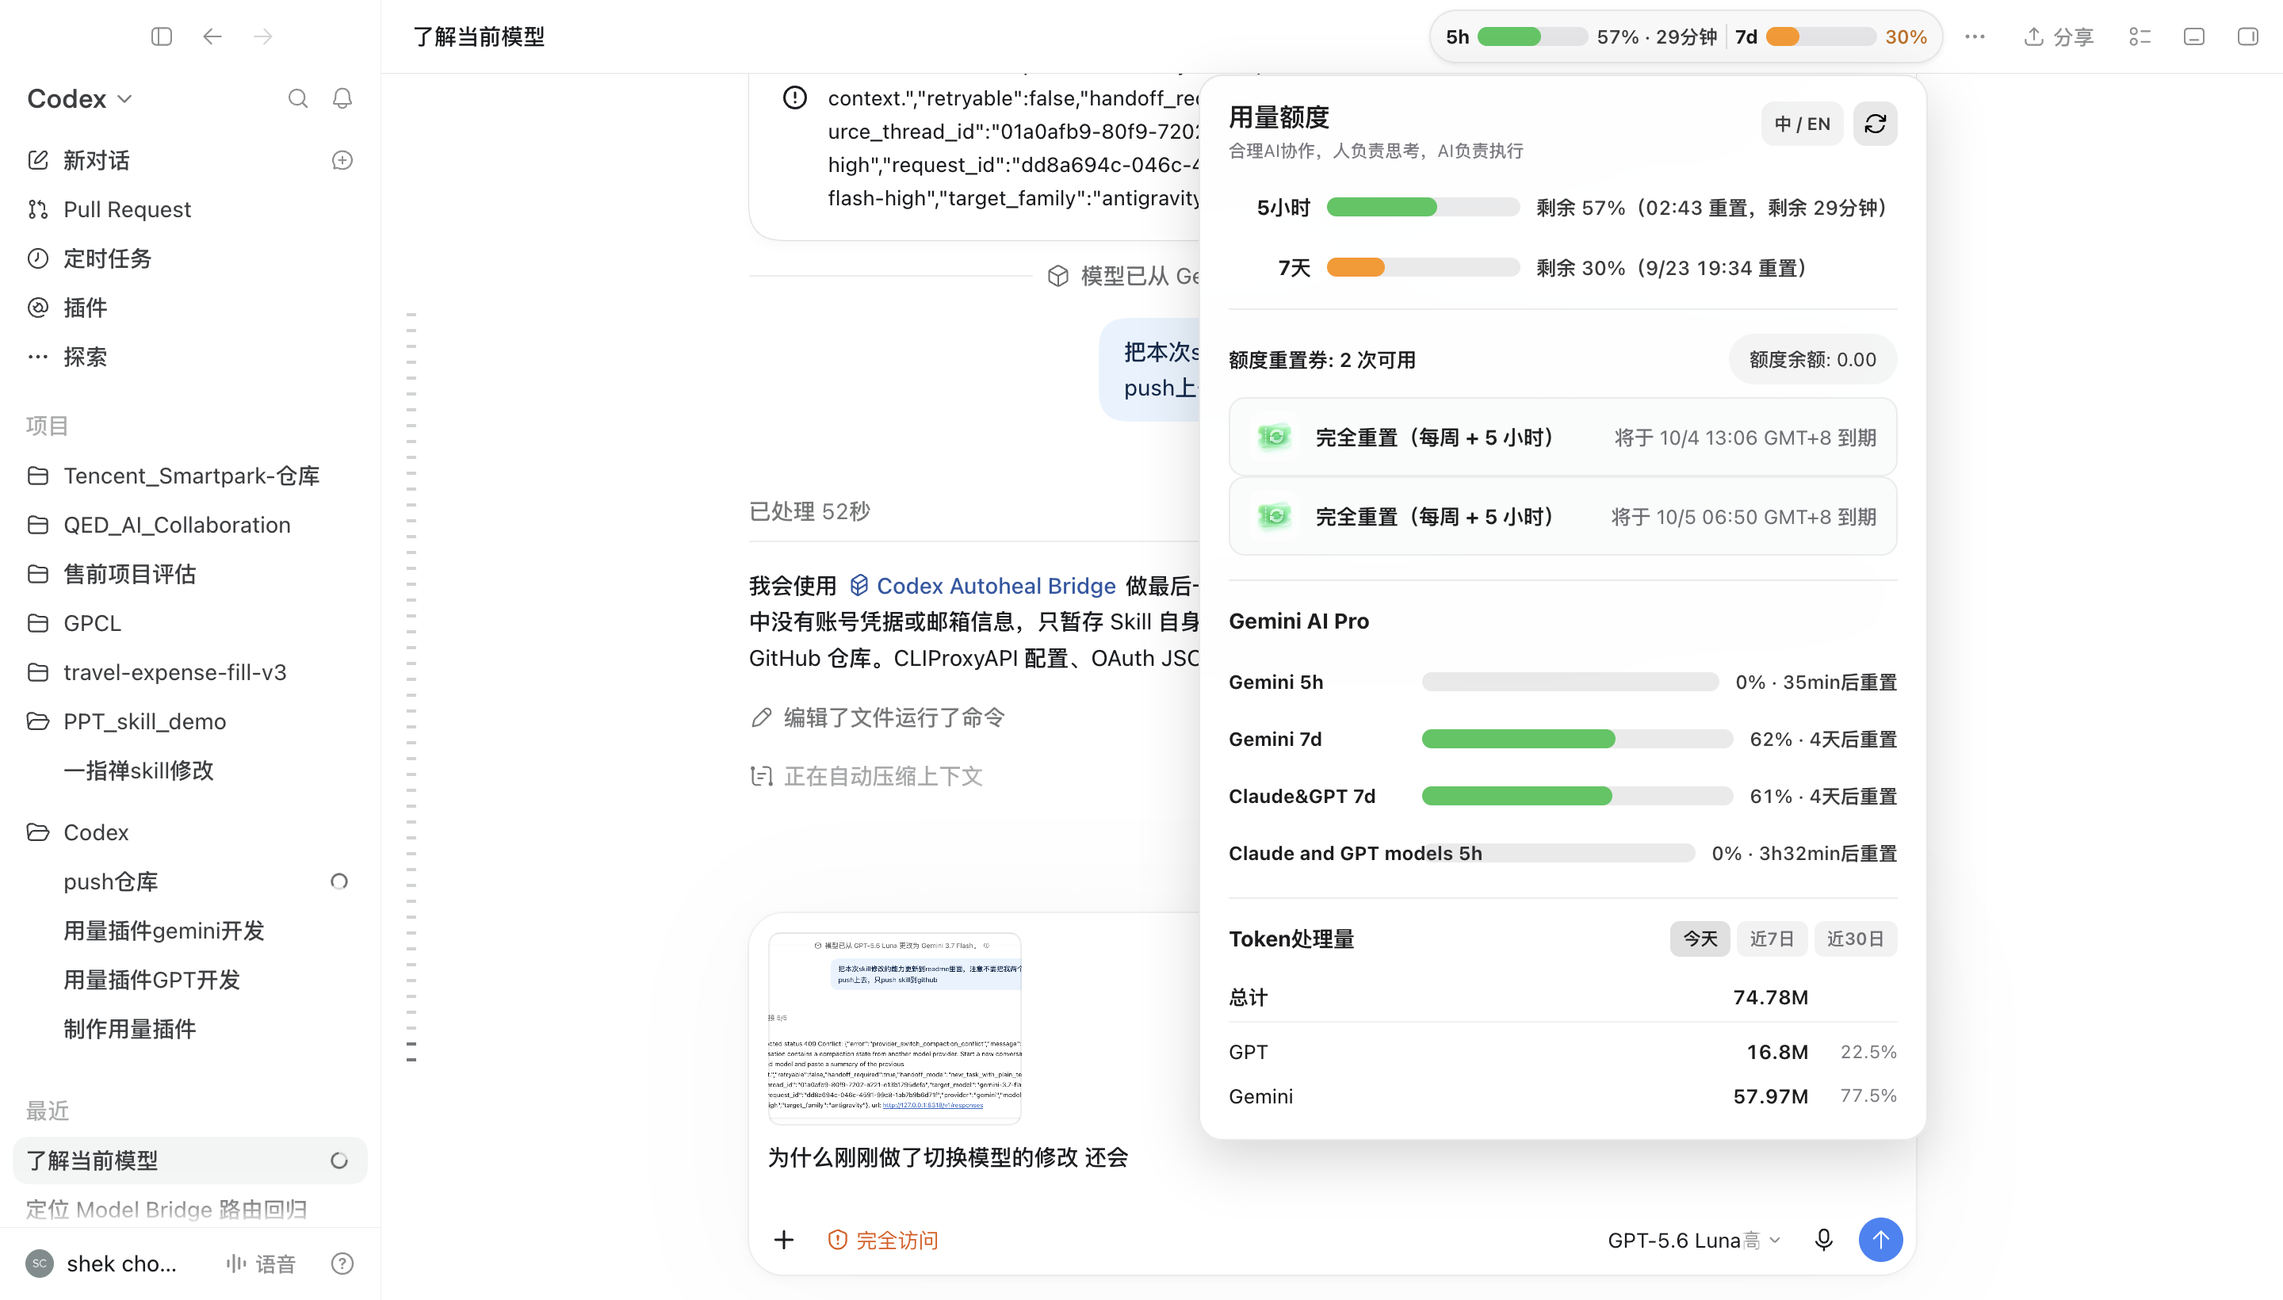
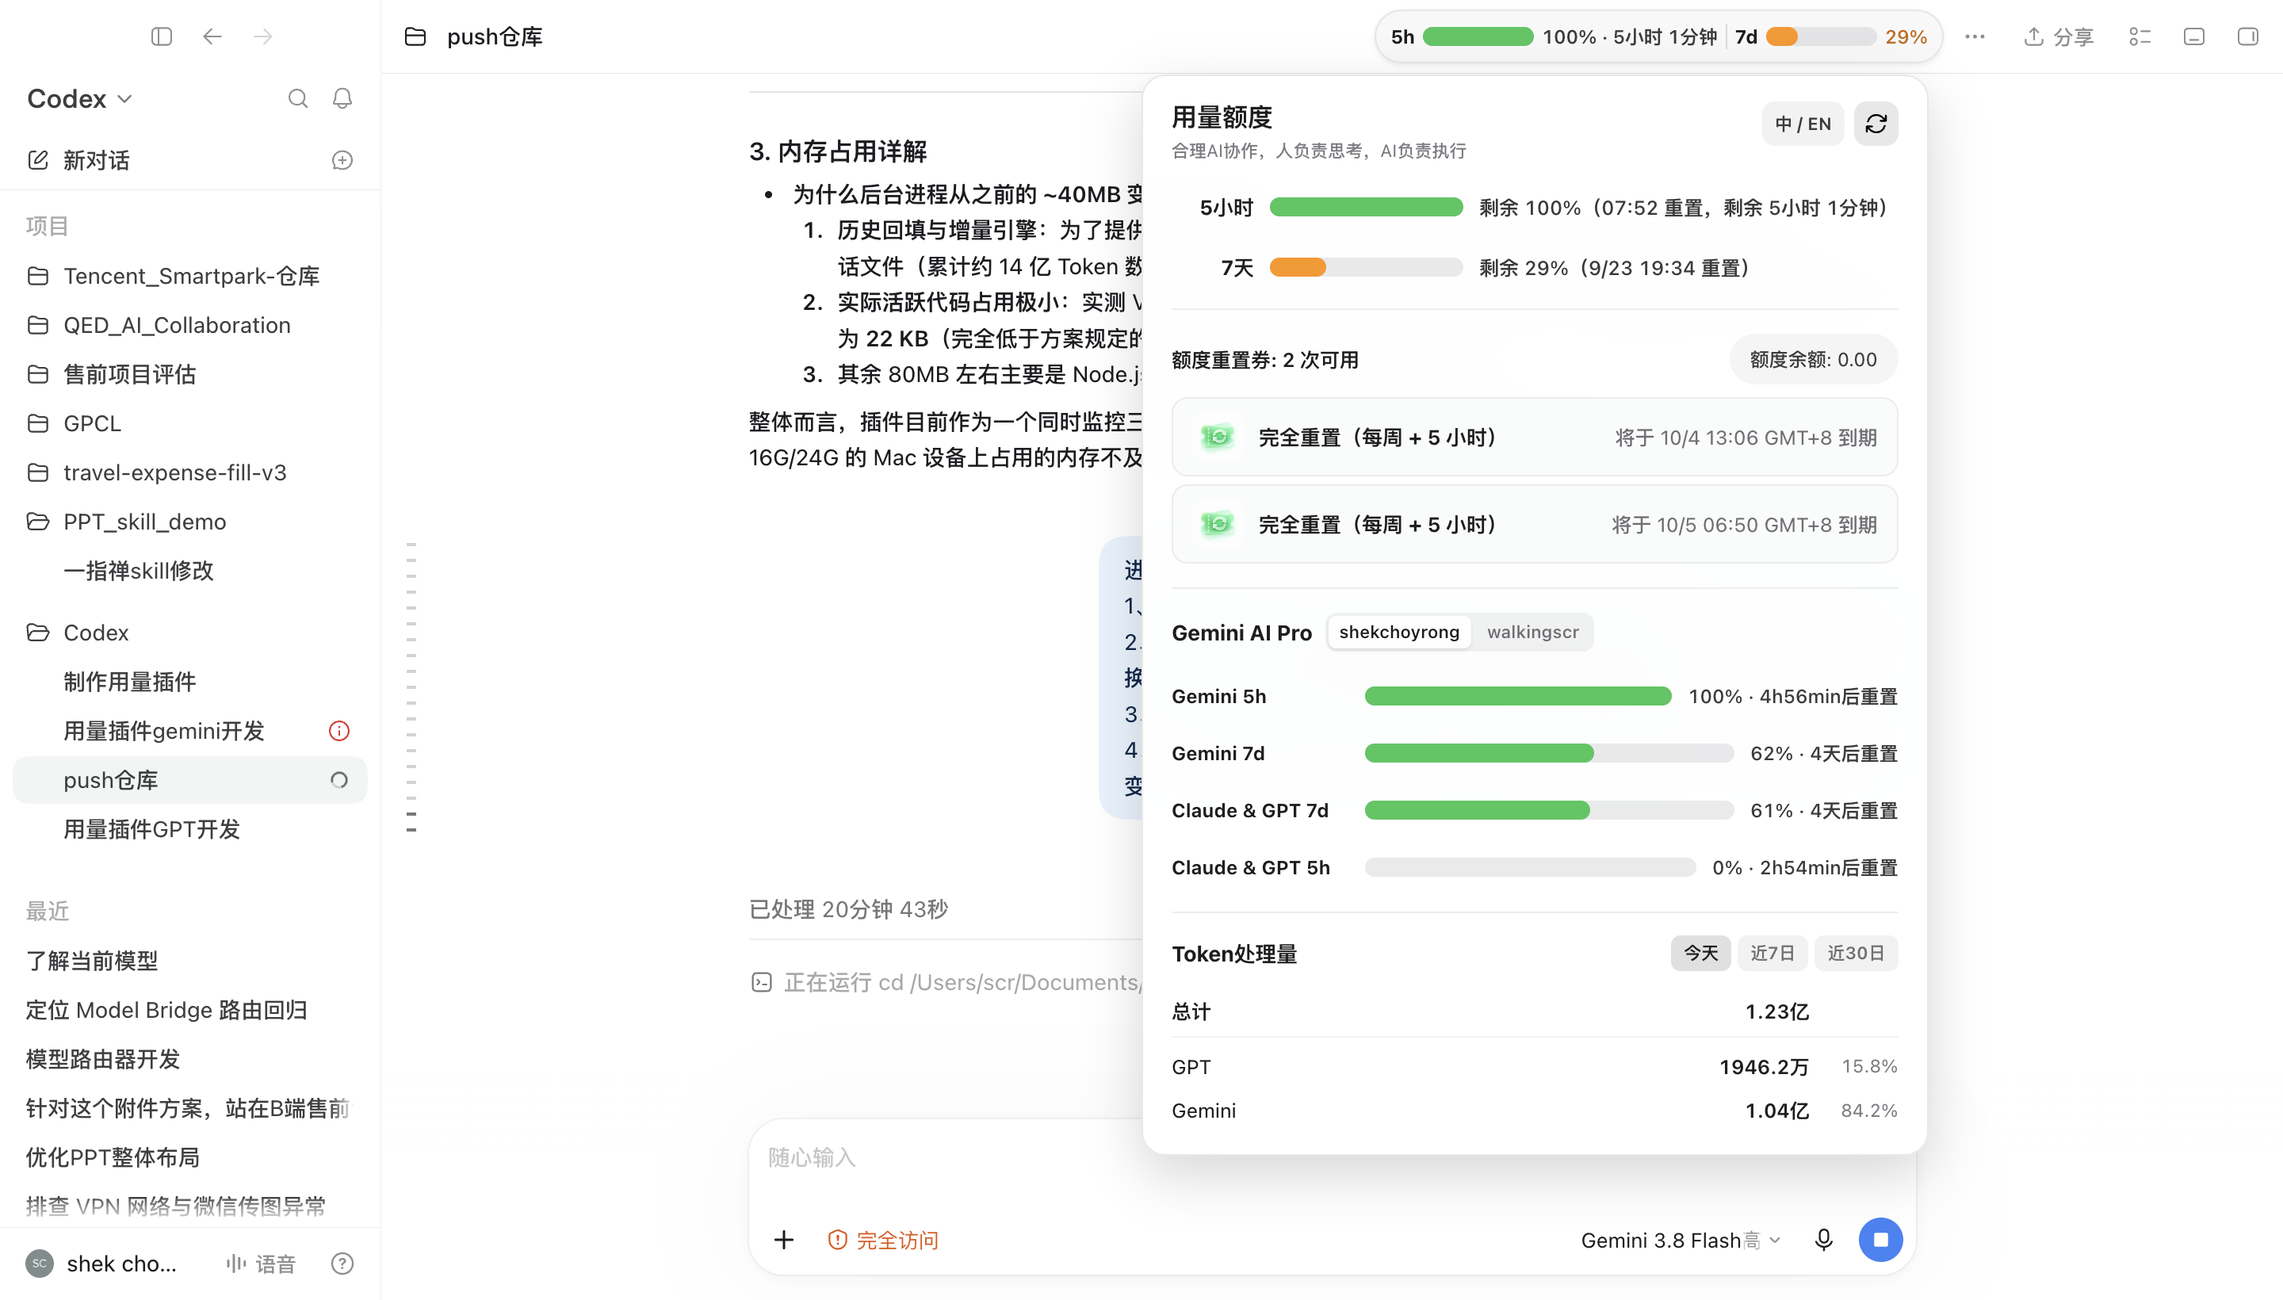
feat: add multi-account Gemini tabs, 5px reset-card gap, Claude & GPT 5h title, and Chinese token units (万/亿)

diff --git a/src/injected.js b/src/injected.js
@@ -6,7 +6,7 @@
 (() => {
   'use strict';
 
-  const RUNTIME_VERSION = '2.6.0';
+  const RUNTIME_VERSION = '2.6.1';
   const HOST_TAG = 'codex-usage-header-host';
   const POPOVER_CLASS = 'codex-usage-popover-v24';
   const POPOVER_ID = 'codex-usage-details-v24';
@@ -480,6 +480,7 @@
       const refresh = path.find(node => node?.classList?.contains('card-refresh'));
       const language = path.find(node => node?.classList?.contains('language-toggle'));
       const rangeTab = path.find(node => node?.classList?.contains('quota-extension-range-tab'));
+      const accountTab = path.find(node => node?.classList?.contains('quota-extension-account-tab'));
       if (refresh && refreshState !== 'loading') requestUsage({ manual: true });
       else if (language) switchLocale();
       else if (rangeTab) {
@@ -487,6 +488,14 @@
         if (range && ['today', 'days7', 'days30'].includes(range)) {
           extendedUsageState.tokens.selectedRange = range;
           try { localStorage.setItem('codexQuotaHeader.selectedTokenRange', range); } catch { /* ignore */ }
+          renderPopover();
+          positionPopover();
+        }
+      } else if (accountTab) {
+        const account = accountTab.dataset.account;
+        if (account) {
+          extendedUsageState.antigravity.selectedAccount = account;
+          try { localStorage.setItem('codexQuotaHeader.selectedAntigravityAccount', account); } catch { /* ignore */ }
           renderPopover();
           positionPopover();
         }
@@ -571,19 +580,50 @@
     }, 240);
   }
 
+  function formatExtendedTokenCount(tokens, isZh) {
+    if (!Number.isFinite(tokens) || tokens <= 0) return '0';
+    if (isZh) {
+      if (tokens >= 1e8) return (tokens / 1e8).toFixed(2).replace(/\.?0+$/, '') + '亿';
+      if (tokens >= 1e4) return (tokens / 1e4).toFixed(1).replace(/\.?0+$/, '') + '万';
+      return String(tokens);
+    }
+    if (tokens >= 1e9) return (tokens / 1e9).toFixed(2).replace(/\.?0+$/, '') + 'B';
+    if (tokens >= 1e6) return (tokens / 1e6).toFixed(2).replace(/\.?0+$/, '') + 'M';
+    if (tokens >= 1e3) return (tokens / 1e3).toFixed(1).replace(/\.?0+$/, '') + 'K';
+    return String(tokens);
+  }
+
   function renderExtendedUsage(dark) {
     const isZh = settings.locale === 'zh-CN';
     const anti = extendedUsageState.antigravity || {};
     const tok = extendedUsageState.tokens || {};
 
-    const antiStaleBadge = anti.stale ? '<span class="quota-extension-badge muted">' + esc(t('staleData')) + '</span>' : '';
-    const antiErrorNote = (anti.error && (!anti.rows || anti.rows.length === 0))
+    const accounts = anti.accounts || [];
+    const savedAccount = typeof localStorage !== 'undefined' ? localStorage.getItem('codexQuotaHeader.selectedAntigravityAccount') : null;
+    const selectedEmail = anti.selectedAccount || savedAccount || accounts[0]?.email;
+    const activeAccount = accounts.find(a => a.email === selectedEmail) || accounts[0] || anti;
+    const activeRows = activeAccount.rows || anti.rows || [];
+
+    const antiStaleBadge = (activeAccount.stale ?? anti.stale) ? '<span class="quota-extension-badge muted">' + esc(t('staleData')) + '</span>' : '';
+    const antiErrorNote = ((activeAccount.error || anti.error) && (!activeRows || activeRows.length === 0))
       ? '<div class="quota-extension-note error">' + esc(t('noData')) + '</div>'
       : '';
 
+    let accountTabsHtml = '';
+    if (accounts.length > 1) {
+      accountTabsHtml = '<div class="quota-extension-account-tabs">'
+        + accounts.map(acc => {
+          const isActive = (acc.email === (activeAccount.email || selectedEmail));
+          return '<button type="button" class="quota-extension-account-tab ' + (isActive ? 'is-active' : '') + '" data-account="' + esc(acc.email) + '" title="' + esc(acc.email) + '">'
+            + esc(acc.label || acc.email)
+            + '</button>';
+        }).join('')
+        + '</div>';
+    }
+
     let geminiRowsHtml = '';
-    if (anti.rows && anti.rows.length > 0) {
-      geminiRowsHtml = anti.rows.map(row => {
+    if (activeRows && activeRows.length > 0) {
+      geminiRowsHtml = activeRows.map(row => {
         const color = getQuotaColor(row.remainingPercent);
         const percentText = (row.remainingPercent !== null && row.remainingPercent !== undefined && !row.unavailable)
           ? row.remainingPercent + '%'
@@ -606,7 +646,10 @@
 
     const geminiSection = '<div class="quota-extension-section">'
       + '<div class="quota-extension-header">'
-      + '<div class="quota-extension-title">' + esc(t('geminiTitle')) + '</div>'
+      + '<div class="quota-extension-title-wrap">'
+      + '<span class="quota-extension-title">' + esc(t('geminiTitle')) + '</span>'
+      + accountTabsHtml
+      + '</div>'
       + antiStaleBadge
       + '</div>'
       + geminiRowsHtml
@@ -628,17 +671,19 @@
       if (!rangeData) {
         tokenContent = '<div class="quota-extension-note">' + esc(t('noData')) + '</div>';
       } else {
+        const totalFormatted = formatExtendedTokenCount(rangeData.total, isZh);
         const totalRow = '<div class="quota-extension-token-row is-total">'
           + '<span class="quota-extension-token-key">' + esc(t('total')) + '</span>'
-          + '<span class="quota-extension-token-amount">' + esc(rangeData.totalFormatted) + '</span>'
+          + '<span class="quota-extension-token-amount">' + esc(totalFormatted) + '</span>'
           + '<span class="quota-extension-token-percent"></span>'
           + '</div>';
 
         const itemRows = (rangeData.items || []).map(item => {
           const label = item.key === 'other' ? t('other') : item.label;
+          const formatted = formatExtendedTokenCount(item.tokens, isZh);
           return '<div class="quota-extension-token-row">'
             + '<span class="quota-extension-token-key">' + esc(label) + '</span>'
-            + '<span class="quota-extension-token-amount">' + esc(item.formatted) + '</span>'
+            + '<span class="quota-extension-token-amount">' + esc(formatted) + '</span>'
             + '<span class="quota-extension-token-percent">' + esc(item.percent) + '</span>'
             + '</div>';
         }).join('');
@@ -682,9 +727,11 @@
       }).join('')
       : '<div class="credit-detail muted">' + esc(t('noResetDetails')) + '</div>';
     const primaryRow = showFiveHours
-      ? '<div class="row"><span class="label">' + esc(t('fiveHours')) + '</span><span class="track"><span class="fill" style="width:' + p.remainingPercent + '%;background:' + pColor + '"></span></span><span class="value popover-primary-value">' + esc(t('remaining') + ' ' + p.remainingPercent + '%（' + formatDate(p.resetsAt) + ' ' + t('resetAt') + (weeklyExhausted ? '' : '，' + t('untilReset') + ' ' + formatDuration(p.secondsRemaining)) + '）') + '</span></div>'
+      ? '<div class="row"><span class="label">' + esc(t('fiveHours')) + '</span><span class="track"><span class="fill" style="width:' + (p?.remainingPercent || 0) + '%;background:' + pColor + '"></span></span><span class="value popover-primary-value">' + esc(t('remaining') + ' ' + (p?.remainingPercent ?? '—') + '%（' + formatDate(p?.resetsAt) + ' ' + t('resetAt') + (weeklyExhausted ? '' : '，' + t('untilReset') + ' ' + formatDuration(p?.secondsRemaining)) + '）') + '</span></div>'
       : '';
-    const rows = primaryRow + '<div class="row"><span class="label">' + esc(t('sevenDays')) + '</span><span class="track"><span class="fill" style="width:' + s.remainingPercent + '%;background:' + sColor + '"></span></span><span class="value popover-secondary-value">' + esc(t('remaining') + ' ' + s.remainingPercent + '%（' + formatDate(s.resetsAt, true) + ' ' + t('resetAt') + '）') + '</span></div>';
+    const rows = ready
+      ? (primaryRow + '<div class="row"><span class="label">' + esc(t('sevenDays')) + '</span><span class="track"><span class="fill" style="width:' + (s?.remainingPercent || 0) + '%;background:' + sColor + '"></span></span><span class="value popover-secondary-value">' + esc(t('remaining') + ' ' + (s?.remainingPercent ?? '—') + '%（' + formatDate(s?.resetsAt, true) + ' ' + t('resetAt') + '）') + '</span></div>')
+      : '';
     const css = [
       '*{box-sizing:border-box}',
       '.popover-shell{display:block;inline-size:max-content;min-inline-size:min(420px,calc(100vw - 24px));max-inline-size:calc(100vw - 24px);max-height:calc(100vh - 24px);overflow-y:auto;font-family:-apple-system,BlinkMacSystemFont,"SF Pro Text","Segoe UI",sans-serif;color:' + (dark ? '#F5F5F7' : '#1D1D1F') + ';background:' + (dark ? 'rgba(35,35,38,.97)' : 'rgba(255,255,255,.97)') + ';border:1px solid ' + (dark ? 'rgba(255,255,255,.13)' : 'rgba(0,0,0,.09)') + ';box-shadow:0 12px 34px rgba(0,0,0,.16);backdrop-filter:blur(22px);-webkit-backdrop-filter:blur(22px);border-radius:15px;padding:16px 18px}',
@@ -693,10 +740,16 @@
       '.popover-actions{display:flex;align-items:center;gap:6px}.language-toggle,.card-refresh{height:28px;border:0;border-radius:8px;background:' + (dark ? 'rgba(255,255,255,.10)' : 'rgba(0,0,0,.05)') + ';color:' + (dark ? '#F5F5F7' : '#3A3A3C') + ';cursor:pointer;padding:0 8px;font:600 11px -apple-system,BlinkMacSystemFont,"SF Pro Text",sans-serif}.card-refresh{width:28px;padding:0;display:grid;place-items:center}.card-refresh .icon{width:16px;height:16px}.card-refresh.state-loading .icon{animation:quota-refresh-spin .72s linear infinite}.language-toggle:hover,.card-refresh:hover{background:' + (dark ? 'rgba(255,255,255,.16)' : 'rgba(0,0,0,.09)') + '}',
       '.rows{display:flex;flex-direction:column;gap:16px;margin-top:16px}.row{display:grid;grid-template-columns:52px 122px minmax(190px,1fr);align-items:center;gap:10px;min-height:22px}.label{font-size:13px;font-weight:700;text-align:right;white-space:nowrap}.track{height:12px;border-radius:999px;overflow:hidden;background:' + CONFIG.colors.track + '}.fill{display:block;height:100%;border-radius:999px;transition:width .3s ease,background .3s ease}.value{min-width:0;color:' + (dark ? '#E5E5EA' : '#3A3A3C') + ';font-size:12.5px;font-weight:520;line-height:1.35;white-space:nowrap;font-variant-numeric:tabular-nums}',
       '.divider{height:1px;background:' + (dark ? 'rgba(255,255,255,.09)' : 'rgba(0,0,0,.07)') + ';margin:15px 0}.meta-row{display:flex;align-items:center;gap:10px;min-height:28px;width:100%;font-size:12.5px}.meta-row.muted{color:' + (dark ? '#A1A1A6' : '#7A7A80') + '}.meta-actions{display:flex;align-items:center;justify-content:space-between;gap:18px;width:100%;white-space:nowrap;flex-wrap:nowrap}.credits-copy{white-space:nowrap;font-weight:600}.balance{color:' + (dark ? '#E5E5EA' : '#3A3A3C') + ';white-space:nowrap;background:' + (dark ? 'rgba(255,255,255,.10)' : 'rgba(0,0,0,.04)') + ';border-radius:999px;padding:7px 13px;font-size:12px}.credit-details{margin-top:8px;padding-top:0}.credit-detail{display:flex;align-items:center;gap:10px;min-height:48px;padding:8px 12px;font-size:12.5px;border:1px solid ' + (dark ? 'rgba(255,255,255,.10)' : 'rgba(0,0,0,.06)') + ';border-radius:10px;background:' + (dark ? 'rgba(255,255,255,.035)' : 'rgba(248,249,250,.72)') + '}.credit-icon{display:block;flex:none;width:32px;height:32px;border-radius:8px;object-fit:cover}.credit-detail strong{flex:1;min-width:0;font-size:13px;font-weight:650;white-space:nowrap}.credit-detail span{flex:none;color:' + (dark ? '#A1A1A6' : '#6E6E73') + ';white-space:nowrap}.muted,.unavailable{color:' + (dark ? '#A1A1A6' : '#6E6E73') + '}.error-note{margin-top:10px;color:' + (dark ? '#FF6961' : '#C42B1C') + ';font-size:11.5px}',
+      '.credit-details{display:flex;flex-direction:column;gap:5px;margin-top:8px;padding-top:0}',
       '@keyframes quota-refresh-spin{to{transform:rotate(360deg)}}@media(max-width:520px){.popover-subtitle{white-space:normal}.row{grid-template-columns:52px 100px minmax(150px,1fr);gap:10px}.value{white-space:normal}.meta-actions{gap:10px}}',
       '.quota-extension{margin-top:15px;padding-top:15px;border-top:1px solid ' + (dark ? 'rgba(255,255,255,.09)' : 'rgba(0,0,0,.07)') + '}',
       '.quota-extension-section{display:flex;flex-direction:column;gap:8px}',
       '.quota-extension-header{display:flex;align-items:center;justify-content:space-between;margin-bottom:6px}',
+      '.quota-extension-title-wrap{display:flex;align-items:center;gap:8px}',
+      '.quota-extension-account-tabs{display:flex;gap:3px;background:' + (dark ? 'rgba(255,255,255,.07)' : 'rgba(0,0,0,.05)') + ';padding:2px;border-radius:7px}',
+      '.quota-extension-account-tab{border:0;background:transparent;color:' + (dark ? '#A1A1A6' : '#6E6E73') + ';border-radius:5px;padding:2px 7px;font-size:11px;font-weight:550;cursor:pointer;transition:background .15s,color .15s;white-space:nowrap;max-width:96px;overflow:hidden;text-overflow:ellipsis}',
+      '.quota-extension-account-tab:hover{color:' + (dark ? '#FFFFFF' : '#1D1D1F') + '}',
+      '.quota-extension-account-tab.is-active{background:' + (dark ? 'rgba(255,255,255,.20)' : 'rgba(255,255,255,.94)') + ';color:' + (dark ? '#FFFFFF' : '#1D1D1F') + ';box-shadow:0 1px 2px rgba(0,0,0,.10)}',
       '.quota-extension-title{font-size:13.5px;font-weight:700;letter-spacing:-.1px;color:' + (dark ? '#F5F5F7' : '#1D1D1F') + '}',
       '.quota-extension-badge{font-size:11px;padding:2px 7px;border-radius:5px;background:' + (dark ? 'rgba(255,255,255,.10)' : 'rgba(0,0,0,.05)') + ';color:' + (dark ? '#A1A1A6' : '#6E6E73') + '}',
       '.quota-extension-row{display:grid;grid-template-columns:112px minmax(100px,1fr) auto;align-items:center;gap:10px;min-height:28px}',

diff --git a/README.md b/README.md
@@ -37,19 +37,21 @@
 - 5 小时与 7 天窗口的精确剩余百分比；
 - 精确到具体日期的重置时刻（如 `9/23 19:34 重置`）；
 - **额度余额**：规范化格式化展示为两位小数（如 `0.00`、`1.20`），直观清晰；
-- **重置券明细**：以精美票券卡片列出可用重置券，显示重置范围（如“完全重置（每周 + 5 小时）”）及精确到时区的到期时间（如“将于 10/4 13:06 GMT+8 到期”）；
+- **重置券明细**：以精美票券卡片列出可用重置券（多张卡片保持 5px 严整间距），显示重置范围（如“完全重置（每周 + 5 小时）”）及精确到时区的到期时间（如“将于 10/4 13:06 GMT+8 到期”）；
 - **自动刷新间隔**：保留在程序配置文件中，卡片不再展示刷新频率控件；
 - 最近一次与客户端同步成功的时间。
 
 ### 4. 多模型额度扩展（Gemini AI Pro & 3P 模型）
 除了官方 Codex 自身额度外，详情卡片下方独立追加了 **Gemini AI Pro** 额度看板：
-- 实时展示 **Gemini 5h**、**Gemini 7d** 以及 **Claude&GPT 7d** 的配额剩余百分比、专属色阶进度条与重置倒计时；
+- **多账号自由切换**：标题右侧自带精致的分段 Tab，支持在配置的多个 Google/Antigravity 账号之间无缝瞬时切换查看各自用量；
+- 实时展示 **Gemini 5h**、**Gemini 7d**、**Claude & GPT 7d** 以及 **Claude & GPT 5h** 的配额剩余百分比、专属色阶进度条与重置倒计时；
 - 独立容灾与缓存保护：通过本地 CLIProxyAPI 与 Google Cloud Code 接口安全低频拉取，网络异常或接口抖动时自动切换到最后可用缓存并标注过期提示，绝不影响原有 Codex 额度区域的展示与操作。
 
 ### 5. 全景 Token 处理量统计（今天 / 近 7 日 / 近 30 日）
 零外部数据库、零网络上传，纯本地增量轻量解析 Codex 的会话日志：
 - **三大周期秒级切换**：支持自由无感切换「今天」、「近 7 日」和「近 30 日」的 Token 消耗；
 - **多模型用量分布**：精准聚合 GPT（gpt-* / codex-* / o系列）、Gemini（gemini-*）及其他第三方模型的消耗量与百分比占比；
+- **中英单位自然适配**：中文环境下以符合中文习惯的「万 / 亿」展示（如 `3754万`、`1.22亿`），英文环境下自动保持「K / M / B」（如 `37.54M`、`1.22B`）；
 - **极速低资源占用**：首启后台分片异步建立 32 天每日汇总，日常每 30 秒仅需增量读取数百字节，切换时间范围完全在内存中瞬时完成，零磁盘与网络 I/O。
 
 ### 6. 智能自适应窗口缩放
